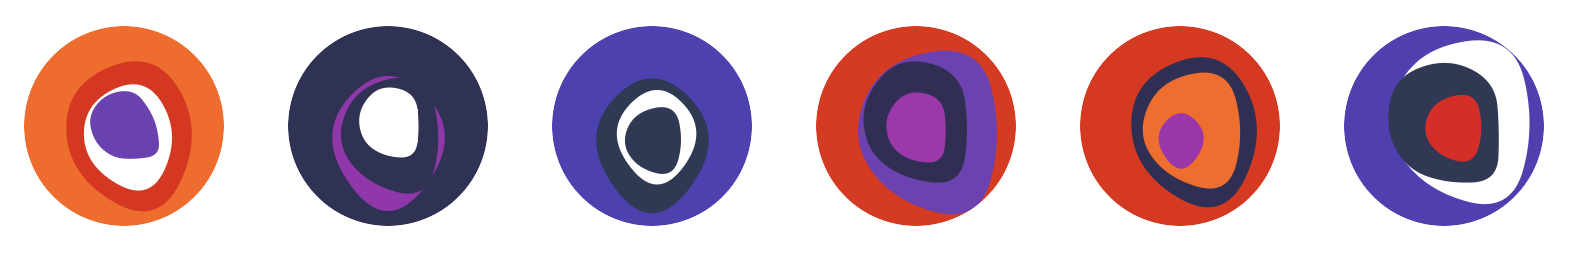
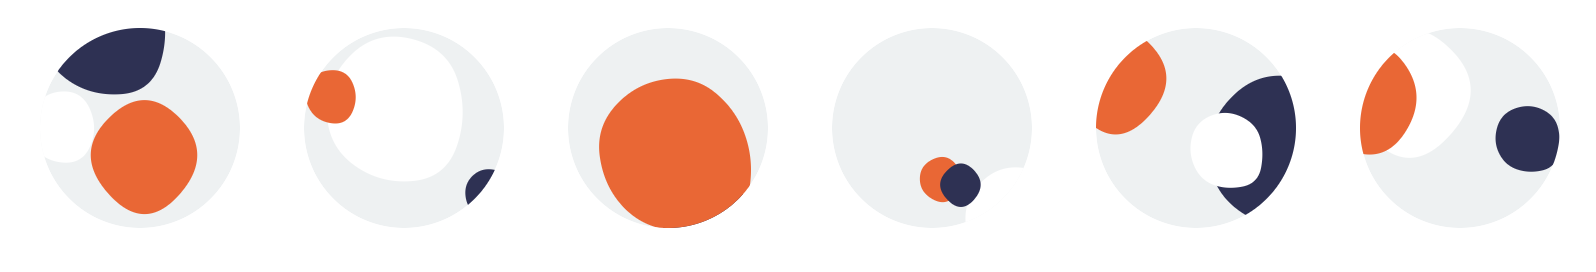
feat: Not sushi anymore

diff --git a/src/index.ts b/src/index.ts
@@ -1,6 +1,5 @@
 import MersenneTwister from "mersenne-twister";
 import seedrandom from "seedrandom";
-import { colord } from "colord";
 import { colors } from "./colors";
 // @ts-ignore
 import blobshape from "blobshape";
@@ -18,7 +17,9 @@ export function generateIdentIcon(
 ): string | SVGSVGElement {
   const range = seedrandom(hash);
   const generator = new MersenneTwister(range.int32());
-  const shiftedColors = hueShift([...colors], generator);
+  const shiftedColors = [...colors];
+  const backgroundColors = ["#ECF0F1"];
+
   const diameter = 100;
 
   const svg = document.createElementNS(SVGNS, "svg");
@@ -31,21 +32,13 @@ export function generateIdentIcon(
   circle.setAttribute("r", (diameter / 2).toString());
   circle.setAttribute("cx", (diameter / 2).toString());
   circle.setAttribute("cy", (diameter / 2).toString());
-  circle.setAttribute("fill", getColor(shiftedColors, generator));
+  circle.setAttribute("fill", getColor(backgroundColors, generator));
   svg.appendChild(circle);
-
-  shiftedColors.push("#ffffff");
 
   const shapeCount = 3;
 
   for (let i = 0; i < shapeCount; i++) {
-    const shape = generateShape(
-      generator,
-      shiftedColors,
-      diameter,
-      i,
-      shapeCount
-    );
+    const shape = generateShape(generator, shiftedColors, diameter);
 
     svg.appendChild(shape);
   }
@@ -56,14 +49,15 @@ export function generateIdentIcon(
 const generateShape = (
   generator: MersenneTwister,
   colors: string[],
-  diameter: number,
-  i: number,
-  total: number
+  diameter: number
 ) => {
   const center = diameter / 2;
-  const gap = diameter / 8;
 
-  const size = (diameter / total) * (total - i) + gap;
+  let size = diameter * generator.random();
+
+  while (size < 20) {
+    size += size;
+  }
 
   let stringId = generator.random().toString();
 
@@ -76,17 +70,20 @@ const generateShape = (
 
   const { path } = blobshape({
     size,
+    growth: 8,
     seed: generator.random().toString(),
     edges,
   });
 
   const shape = document.createElementNS(SVGNS, "path");
+  const position = generator.random() > 0.5 ? -1 : 1;
+  const shapeCenter = center - size / 2;
 
   shape.setAttribute(
     "transform",
     `translate(${
-      center - size / 2 + generator.random() * (generator.random() * 10)
-    }, ${center - size / 2 + generator.random() * (generator.random() * 10)})`
+      shapeCenter + ((position * diameter) / 2) * generator.random()
+    }, ${shapeCenter + ((position * diameter) / 2) * generator.random()})`
   );
 
   shape.setAttribute("d", path);
@@ -99,20 +96,3 @@ const getColor = (colors: string[], generator: MersenneTwister) => {
   const idx = Math.floor(colors.length * generator.random());
   return colors.splice(idx, 1)[0];
 };
-
-const hueShift = (colors: string[], generator: MersenneTwister) => {
-  const amount = generator.random() * 30 - 30 / 2;
-
-  return colors.map((hex: string) => colorRotate(hex, amount));
-};
-
-function colorRotate(hex: string, degrees: number) {
-  const hsl = colord(hex).toHsl();
-  let hue = hsl.h;
-
-  hue = (hue + degrees) % 360;
-  hue = hue < 0 ? 360 + hue : hue;
-  hsl.h = hue;
-
-  return colord(hsl).toHex();
-}

diff --git a/demo/index.ts b/demo/index.ts
@@ -1,6 +1,7 @@
 import { generateIdentIcon } from "../src";
 
 const root = document.getElementById("root");
+
 for (let i = 0; i < 50; i++) {
   const icon = generateIdentIcon(i.toString());
 

diff --git a/src/colors.ts b/src/colors.ts
@@ -1,8 +1,1 @@
-export const colors = [
-  "#e90d03",
-  "#2f3258",
-  "#2f3258",
-  "#ff5004",
-  "#673ab7",
-  "#9c27b0",
-];
+export const colors = ["#FB5D20", "#fff", "#2F3158"];

diff --git a/README.md b/README.md
@@ -2,7 +2,7 @@
 
 Yet another tiny identicon library.
 
-Get Sushi identicon as SVG.
+Get unique identicon as SVG.
 
 ![Example](https://raw.githubusercontent.com/appbak3r/sushi-identicon/main/demo/example.png)
 
